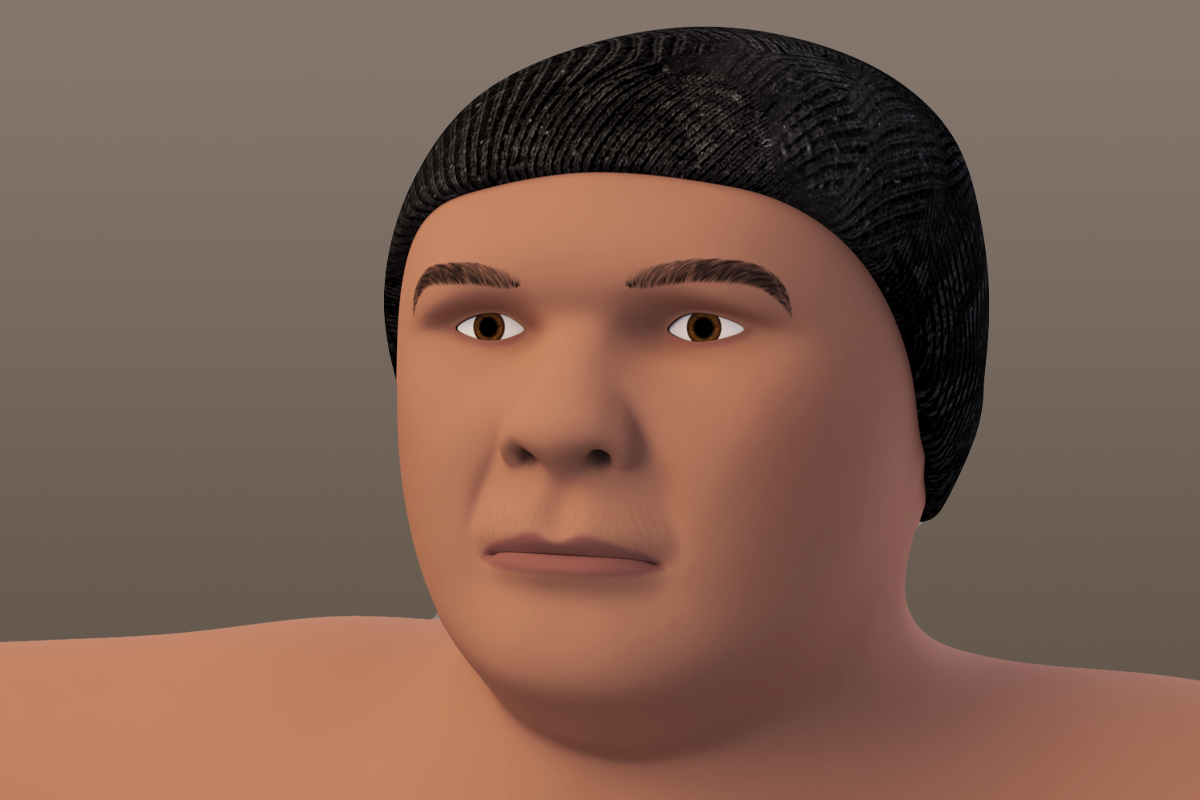
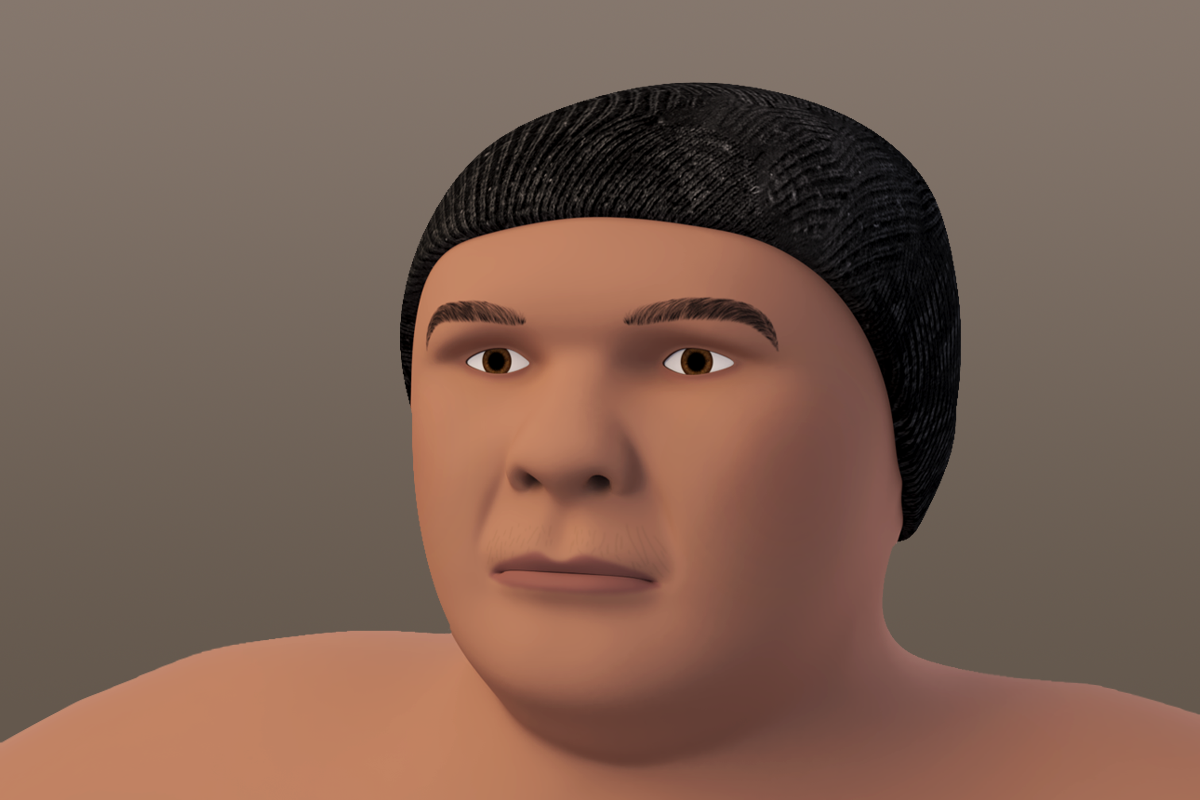
update

Changed region(s): [[0.0, 0.0312, 1.0, 0.9375]]

diff --git a/cgi.html b/cgi.html
@@ -329,7 +329,7 @@
 						<div class="modal-images">
                         	<img class="modal-images-feature" src="assets/images/cgi/memorial/memorial-1.png"/>
 							<div class="modal-images-gallery">
-								<img class="modal-images-gallery-thumbnail" src="assets/images/placeholder.svg"/>
+								<img class="modal-images-gallery-thumbnail" src="assets/images/cgi/memorial/memorial-2.png"/>
 								<img class="modal-images-gallery-thumbnail" src="assets/images/placeholder.svg"/>
 								<img class="modal-images-gallery-thumbnail" src="assets/images/placeholder.svg"/>
 								<img class="modal-images-gallery-thumbnail" src="assets/images/placeholder.svg"/>
